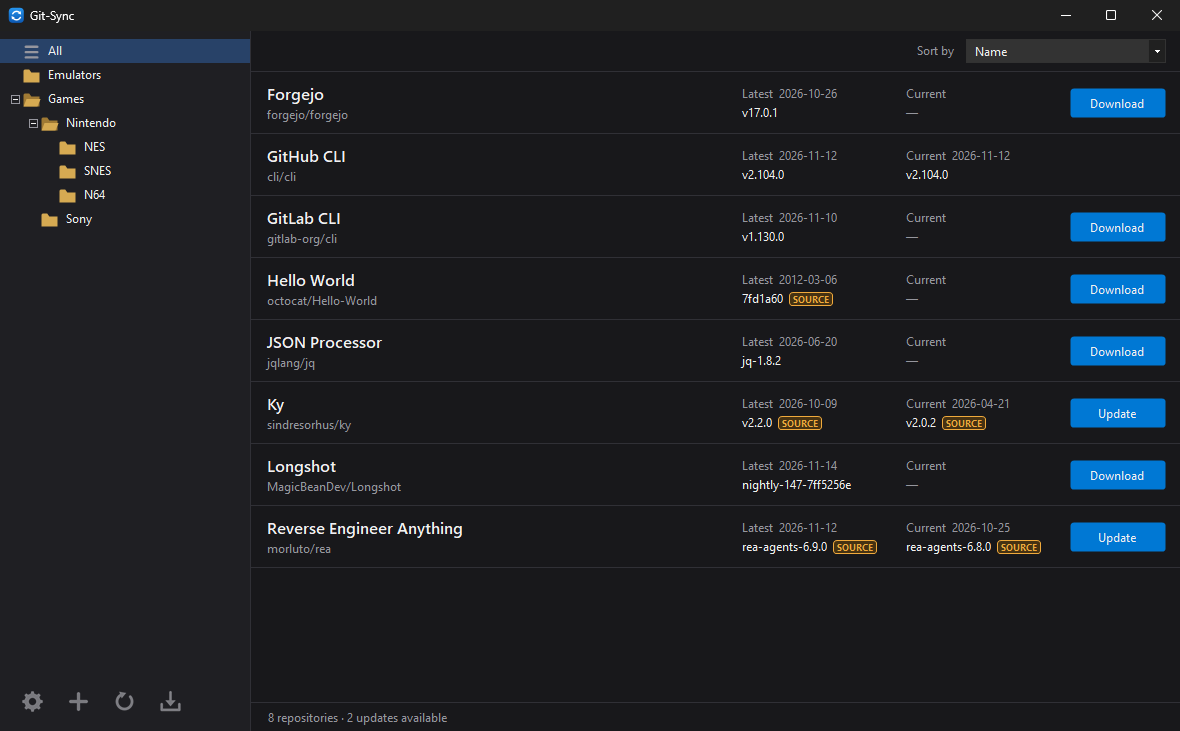
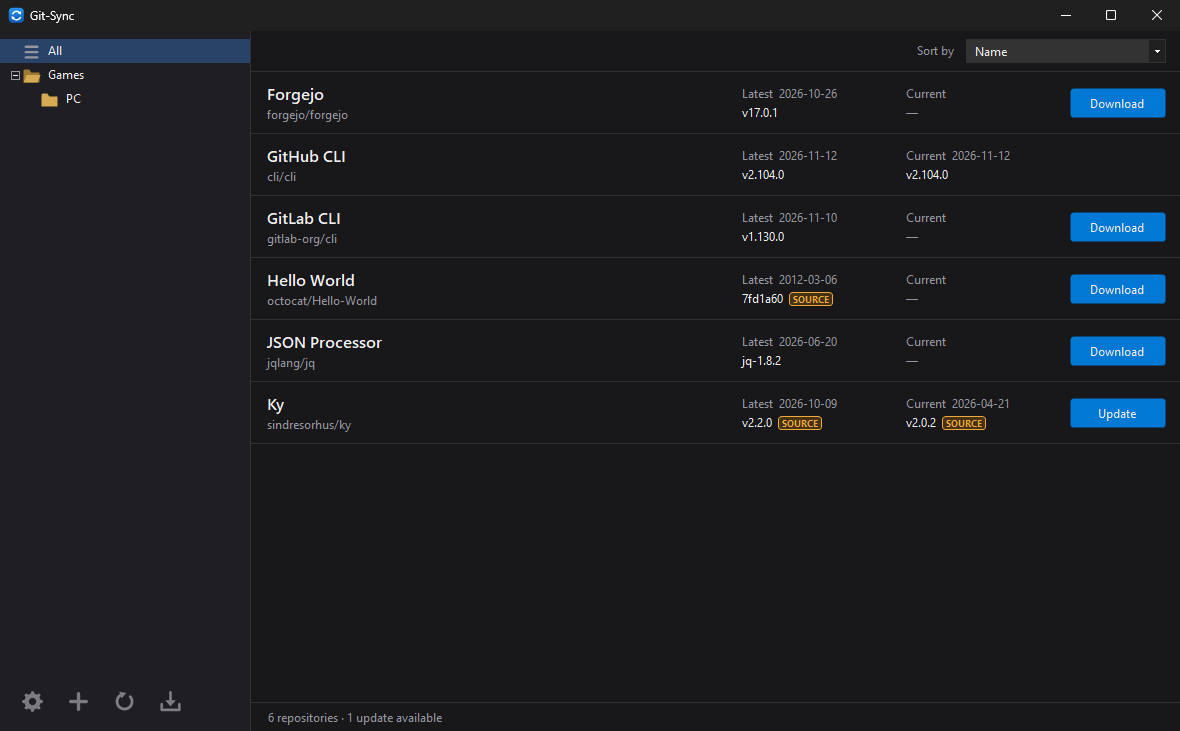
Simpler screenshot and folder example in the README

diff --git a/README.md b/README.md
@@ -9,8 +9,8 @@ folders of your own, and downloads the releases you pick.
 ## Features
 
 - **Your own folder tree.** Create folders and subfolders in Settings (for example
-  *Emulators*, *Games › Nintendo › NES*) and file each repository under one. Selecting a
-  folder lists its repositories and those of every folder below it.
+  *Games › PC*) and file each repository under one. Selecting a folder lists its
+  repositories and those of every folder below it.
 - **Latest / Current at a glance.** Refresh checks every repository (or only the selected
   folder) and shows the newest version next to the one you have. Repositories that publish
   no files are marked **SOURCE** and get their source archive instead; a repository that
